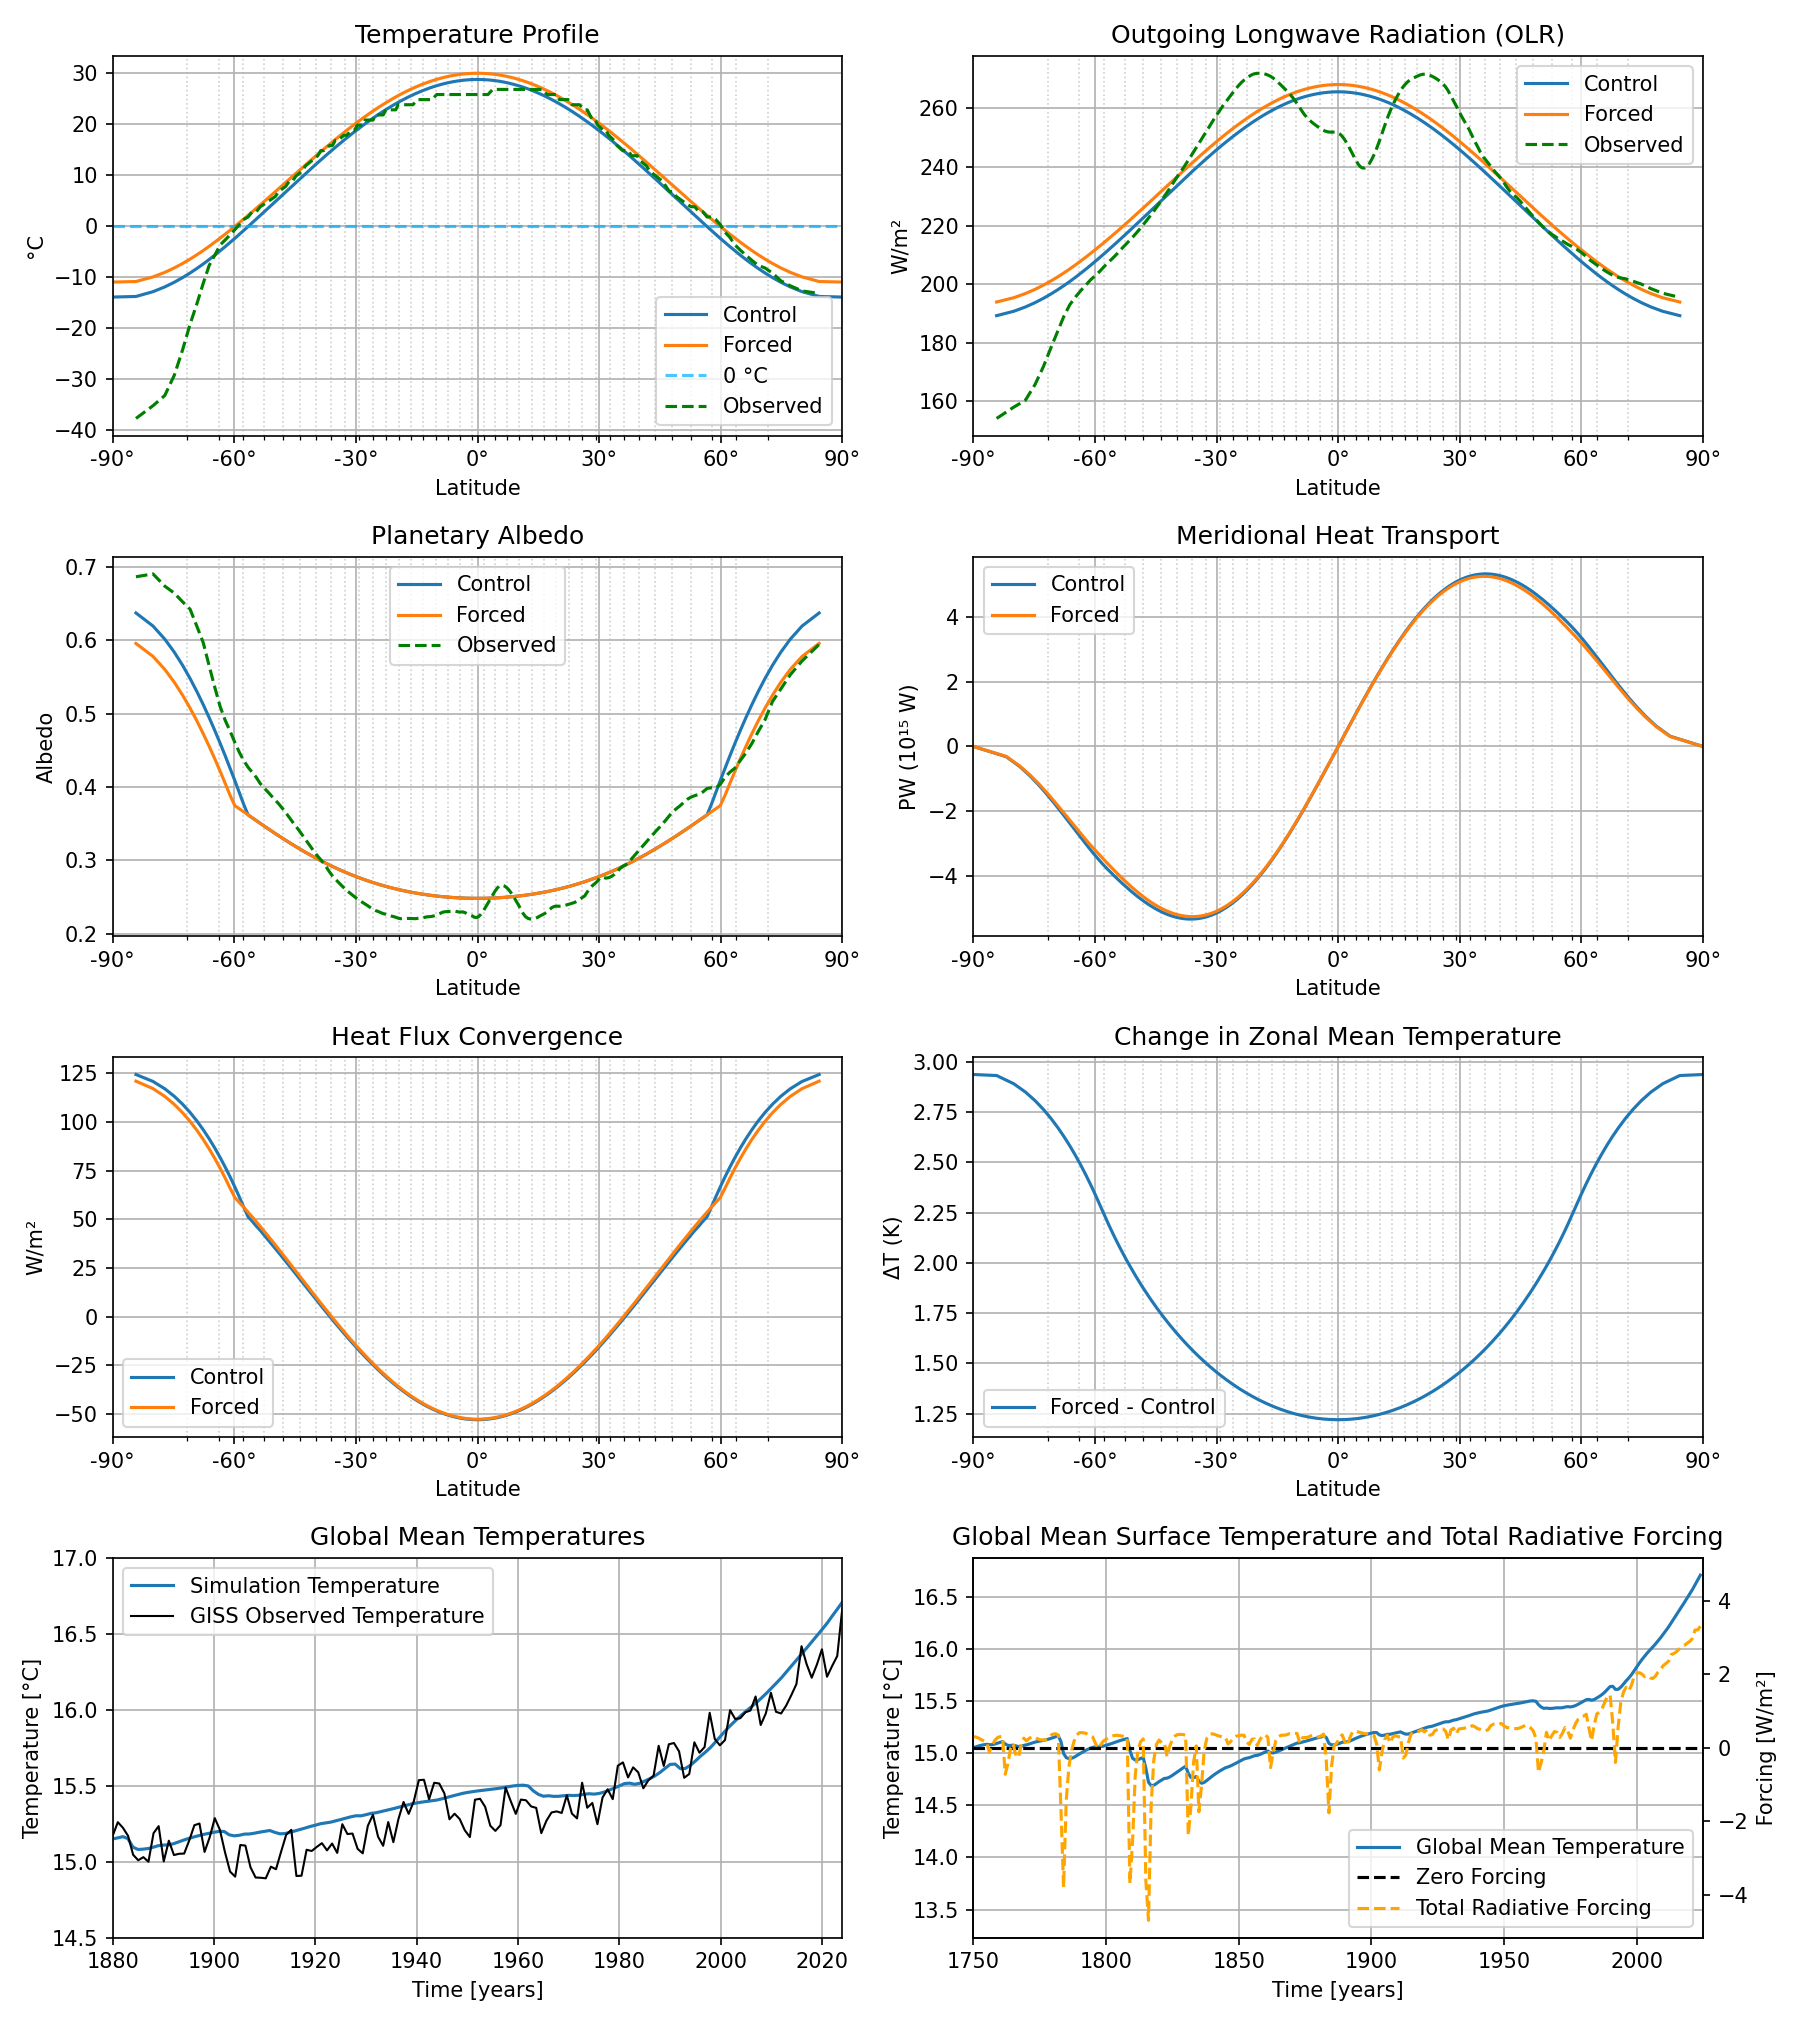
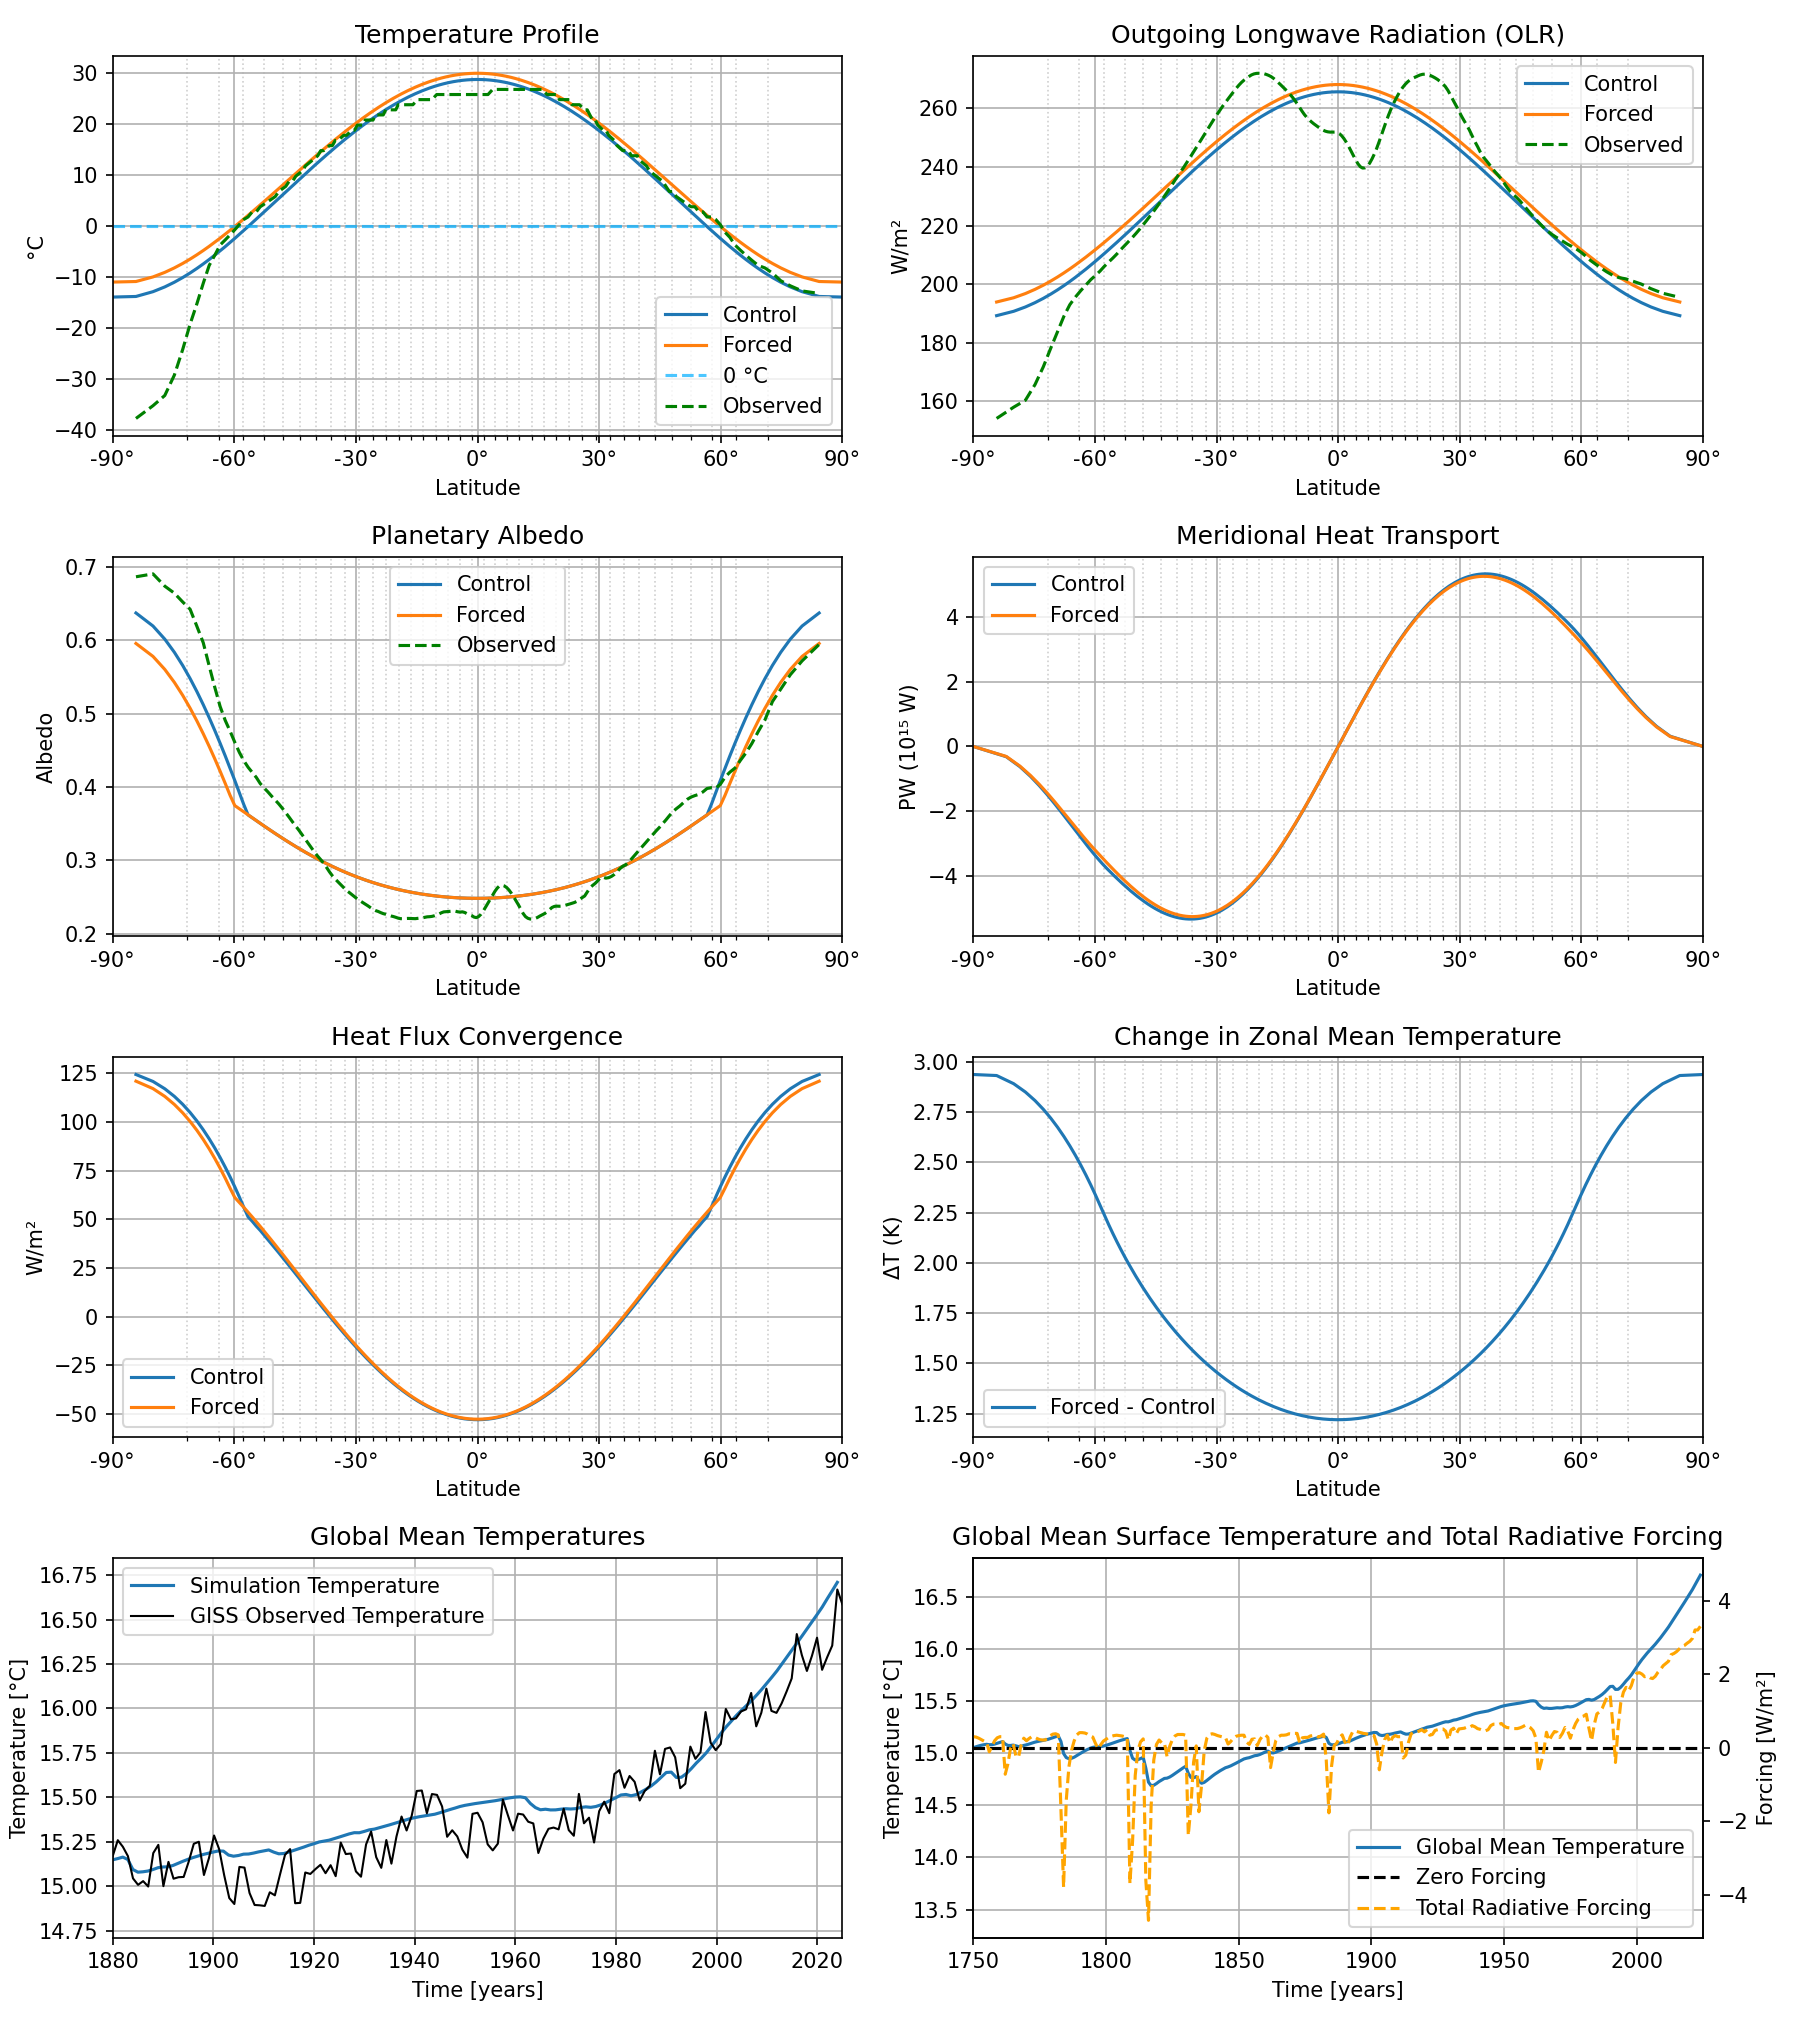
fjernede hardcoding i HistoricalOutput

diff --git a/Programmappen/outputs.py b/Programmappen/outputs.py
@@ -560,20 +560,22 @@ class HistoricalOutput(TimeSeriesOutput):
 
     def initialize(self, model):
         super().initialize(model)
-        self.start_year = 1750
         print("Loading temperature history from file:", model.config["temperature_history"])
         ds_giss = tools.netcdf_reader(model.config["temperature_history"])
         self.giss_time = pd.to_datetime(ds_giss['time'].values)
         self.giss_temp = np.squeeze(ds_giss['tempanomaly'].values)
-        self.temperature_anomaly = np.interp(np.linspace(1880, 2025, int((2025-1880)/self.dt)), np.linspace(1880, 2025, len(self.giss_time)), self.giss_temp)
-    
+        self.temperature_anomaly = np.interp(np.linspace(self.giss_time.year[0], self.giss_time.year[-1], int((self.giss_time.year[-1]-self.giss_time.year[0])/self.dt)), np.linspace(self.giss_time.year[0], self.giss_time.year[-1], len(self.giss_time)), self.giss_temp)
+        self.start_year = self.giss_time.year[0]
+        if "VariableForcing" in model.config["modes"]:
+           self.start_year = model.start_year
+
     def panel(self, ax):
         T_series = np.array(self.Tg_series[int(self.ctrl_years/self.dt+1):]) if self.ctrl_years > 0 else np.array(self.Tg_series)
         ax.plot(np.arange(len(T_series)) * self.dt + self.start_year, T_series, label='Simulation Temperature')
         ax.set_xlabel("Time [years]"); ax.set_ylabel("Temperature [°C]"); ax.grid(True)
-        ax.set_xlim(1880,2024)
-        ax.set_ylim(14.5,17)
-        ax.plot(np.linspace(1880, 2025, int((2025-1880)/self.dt)), self.temperature_anomaly + self.Tg_series[int(self.ctrl_years/self.dt)], color='black', label='GISS Observed Temperature', linewidth=1.0)
+        ax.set_xlim(self.giss_time.year[0],self.giss_time.year[-1])
+        ax.set_ylim( - np.abs( np.max(self.temperature_anomaly) - np.min(self.temperature_anomaly) ) * 0.1 + np.min(self.temperature_anomaly) + self.Tg_series[int(self.ctrl_years/self.dt)], np.abs( np.max(self.temperature_anomaly) - np.min(self.temperature_anomaly) ) * 0.1 + np.max(self.temperature_anomaly) + self.Tg_series[int(self.ctrl_years/self.dt)])
+        ax.plot(np.linspace(self.giss_time.year[0], self.giss_time.year[-1], int((self.giss_time.year[-1]-self.giss_time.year[0])/self.dt)), self.temperature_anomaly + self.Tg_series[int(self.ctrl_years/self.dt)], color='black', label='GISS Observed Temperature', linewidth=1.0)
         ax.set_title("Global Mean Temperatures")
         ax.legend()
 
